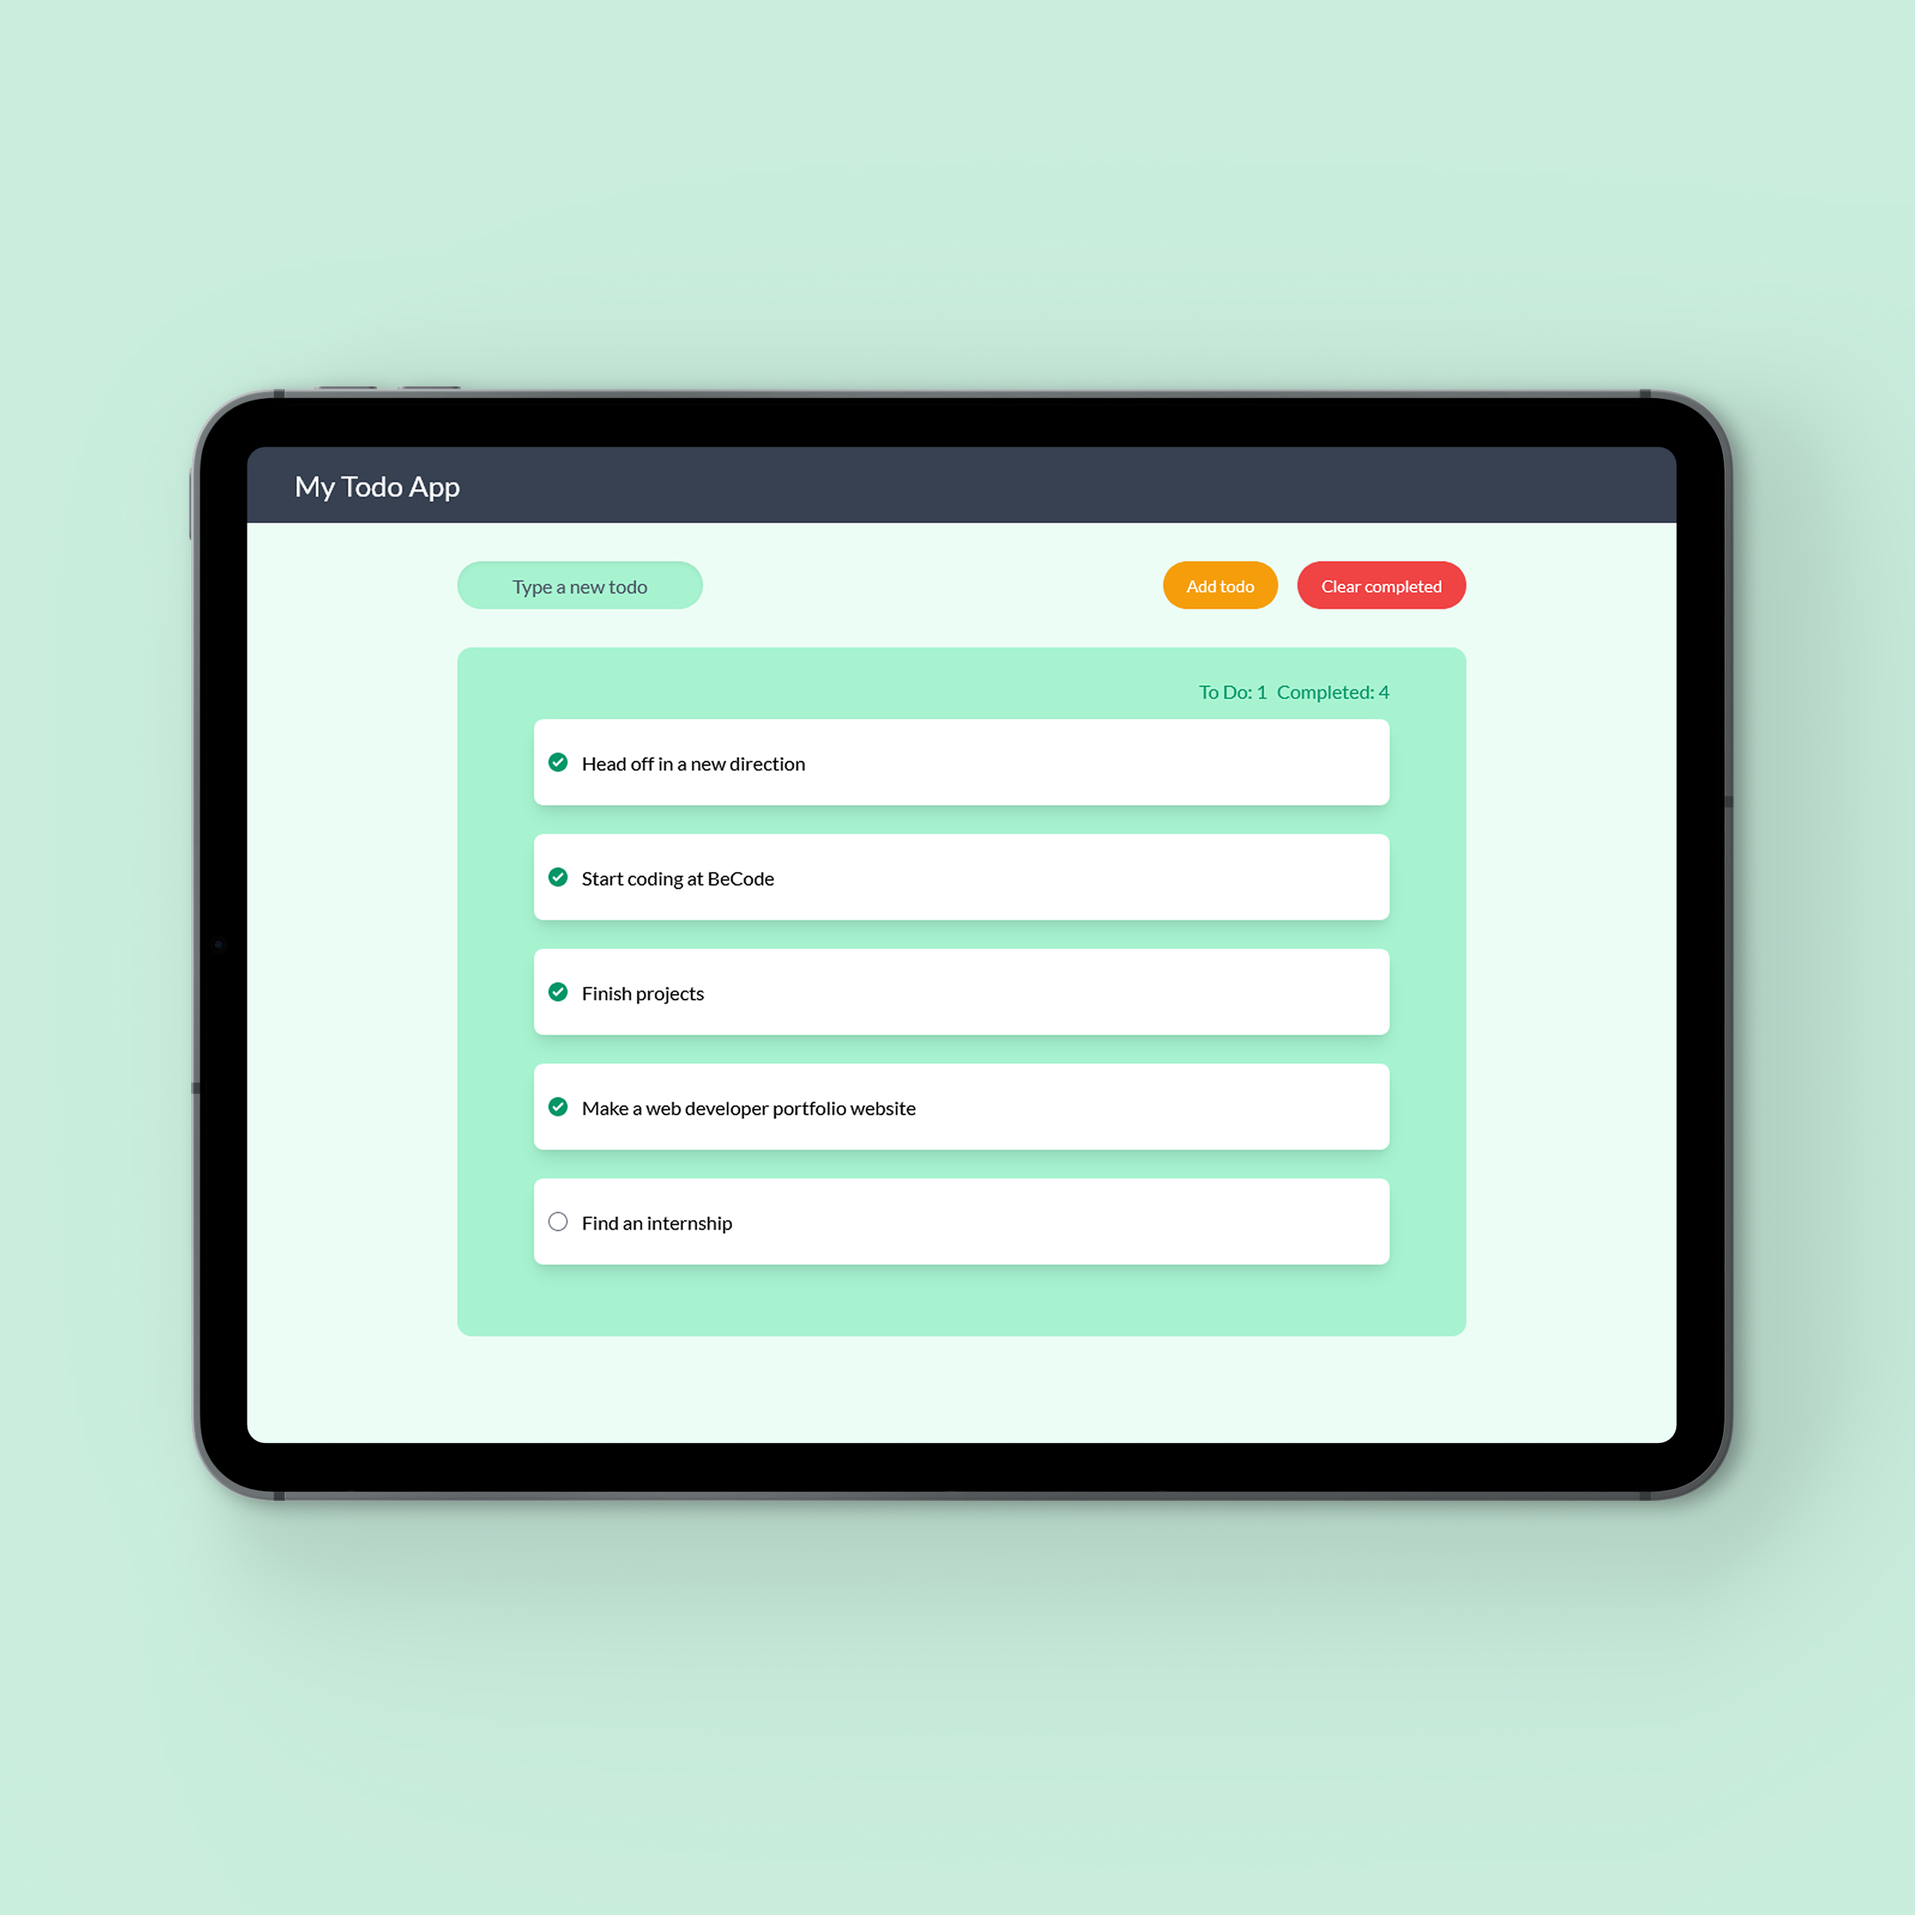
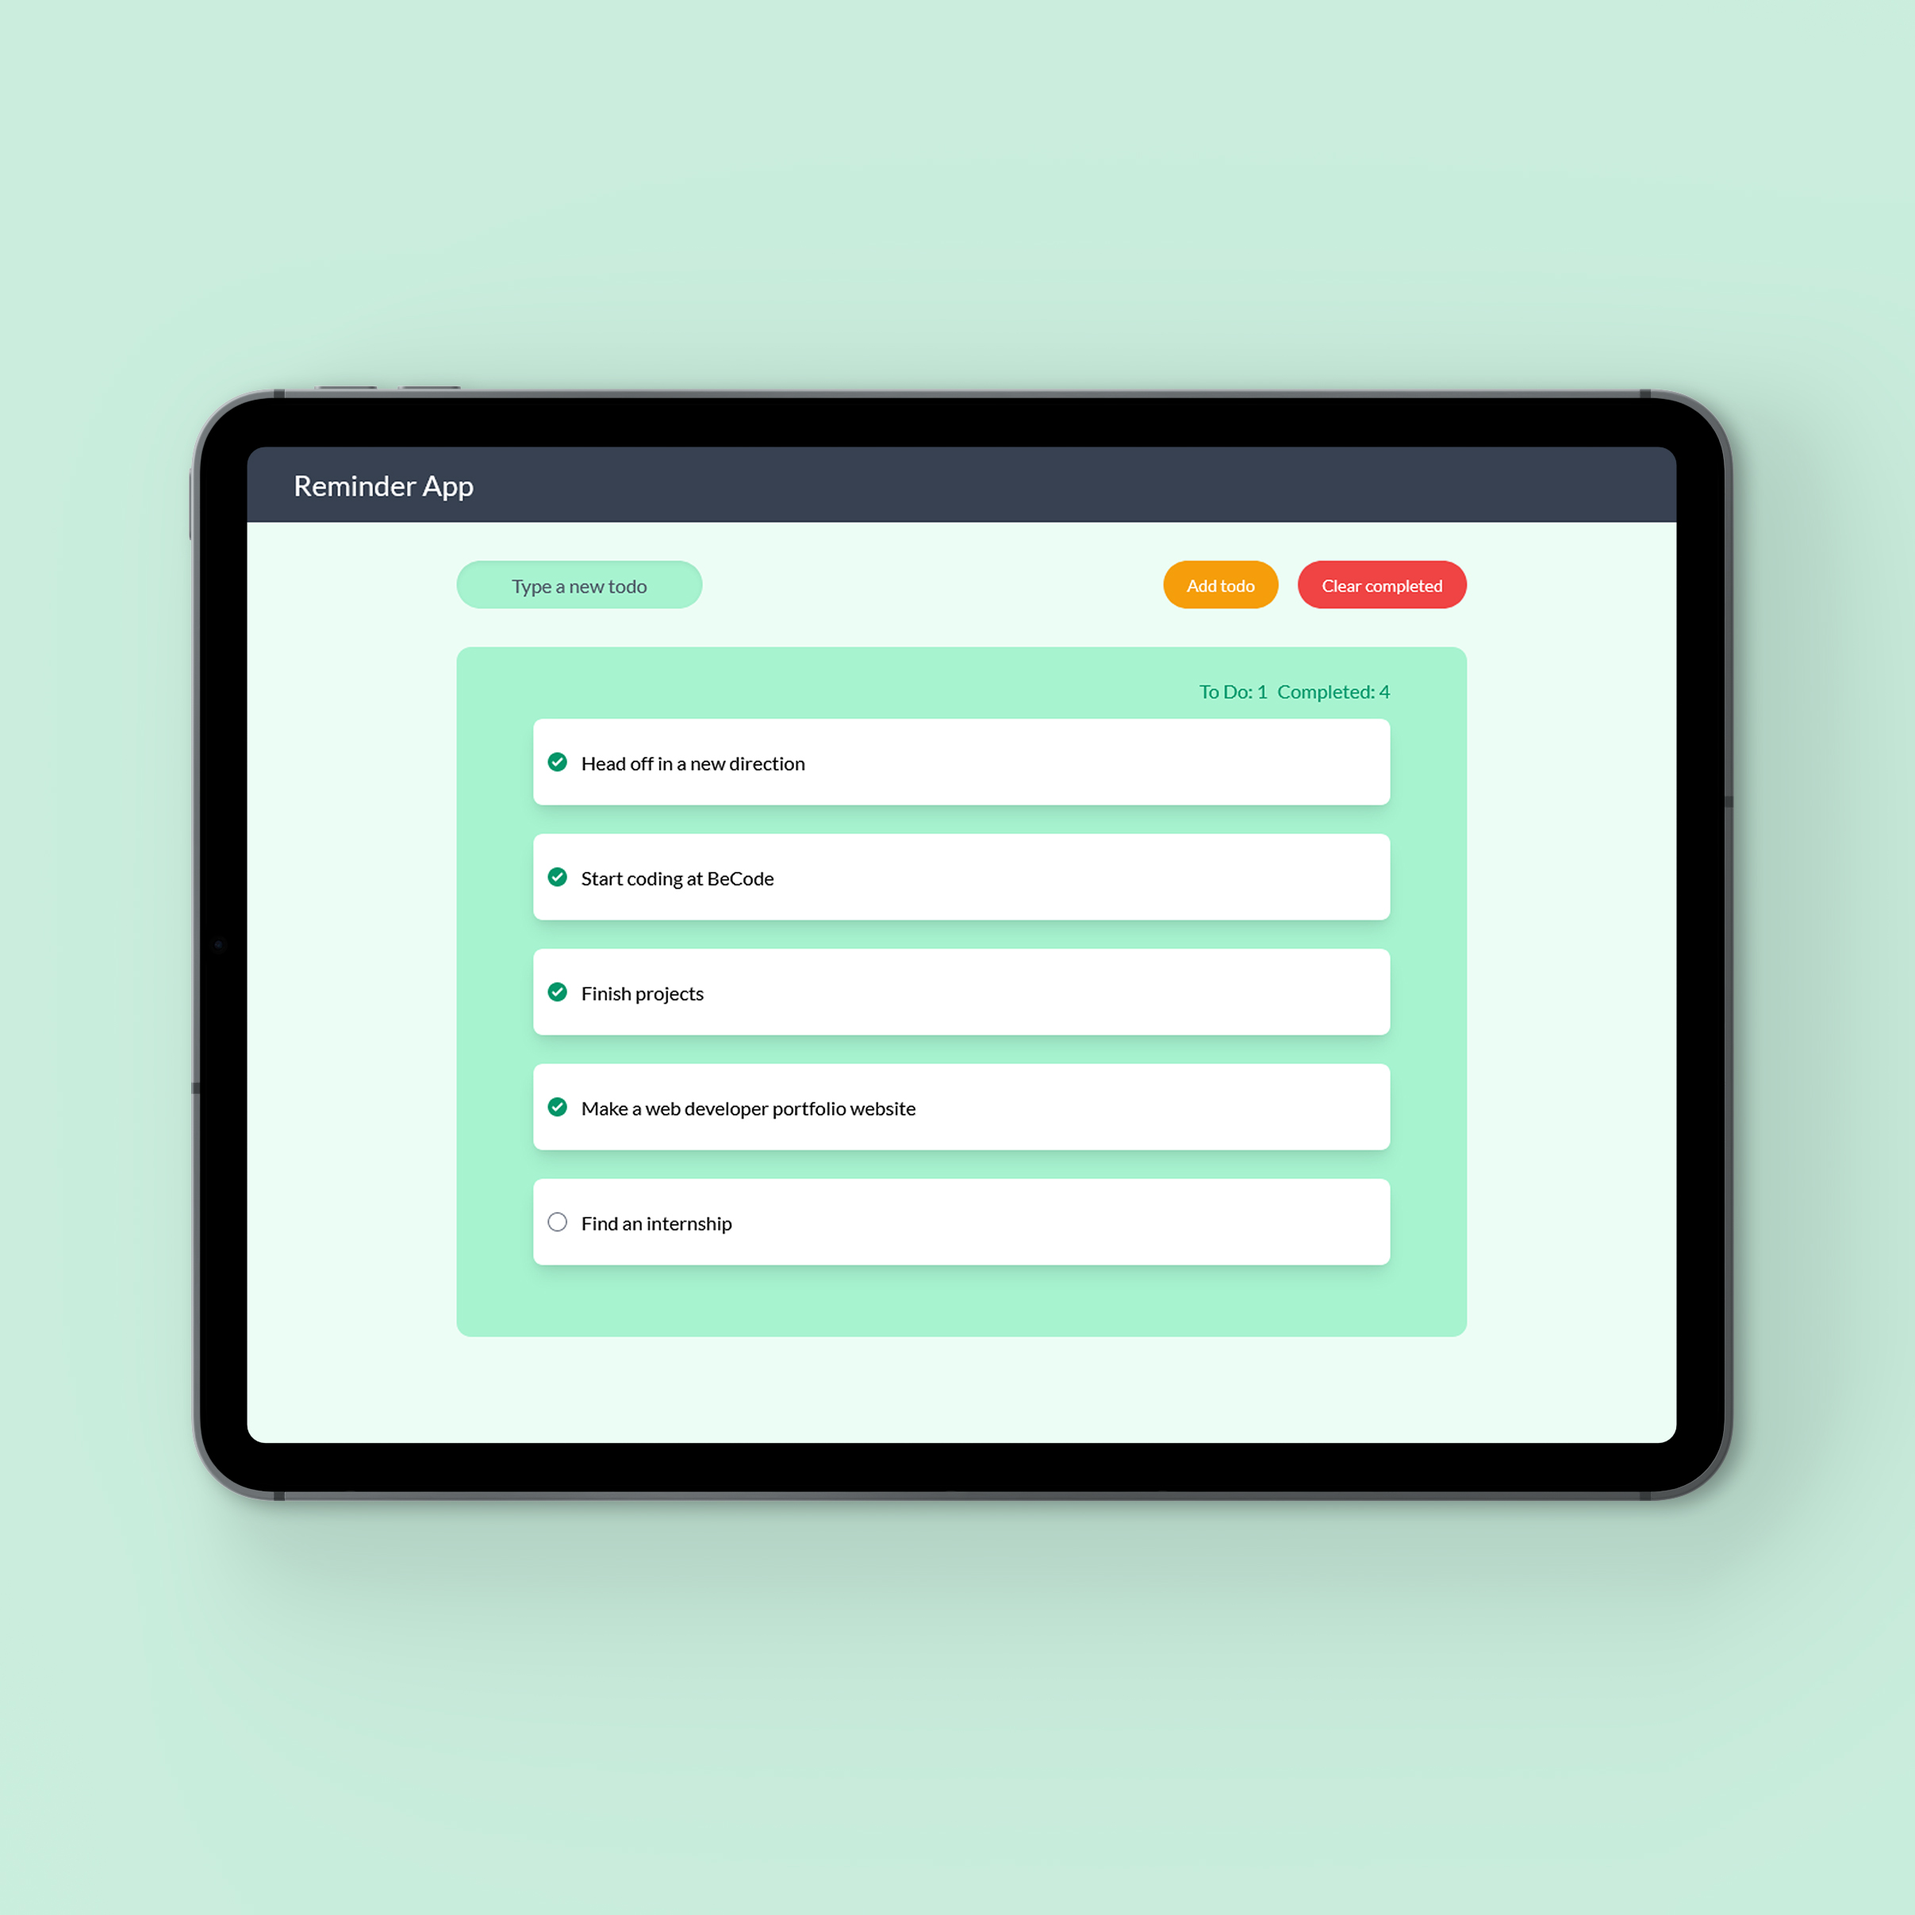
color update, about update

diff --git a/components/About.js b/components/About.js
@@ -17,25 +17,25 @@ const About = () => {
             <h1 className="header-title leading-normal text-4xl text-black mb-4">
               About
             </h1>
-            <p className="text-xl leading-normal">
-              Hi, I'm Mick, an experienced graphic designer, knowledgeable dtp-operator and aspiring
+            <p className="text-xl leading-relaxed">
+              Hi, I'm Mick, an experienced graphic designer, knowledgeable dtp-operator, and aspiring
               web developer from Antwerp. Nice to meet you, welcome to my portfolio.
               <br></br>
               <br></br>
-              On this website you can find some of the projects I made with new skills learned during a seven-months professional Junior Web Developer training 
+              On this website you can find some of the projects made with new skills I gained during a seven-month full-time Junior Web Developer training 
               at BeCode Antwerp. 
               They represent the first steps I have been taking in my ambition of becoming a full stack developer with an emphasis on front-end. 
               More projects can be found on my  <a href="https://github.com/MickDellaert" target="_blank">Github</a> profile.
               <br></br>
               <br></br>
               Up until now I have been working in the graphic design industry, mainly for printed output.
-              During my <a href="https://www.linkedin.com/in/mick-dellaert" target="_blank">career</a> I have worked on a broad range of projects: making layouts for books, magazines, advertisments and newspapers; designing packaging, POS-materials, logo's,
-              exhibition stands, interactive magazines, websites and illustrations. 
+              During my <a href="https://www.linkedin.com/in/mick-dellaert" target="_blank">career</a> I have worked on a broad range of projects: making layouts for books, magazines, advertisements, and newspapers; designing packaging, POS materials, logos,
+              exhibition stands, interactive magazines, websites, and illustrations. 
               <br></br>
               <br></br>
               Currently, I would love to add a more dynamic and interactive
-              layer to my skills and enter the world of web development with
-              it's endless posibilities and exciting prospects. At the moment I
+              dimension to my skills and enter the world of web development with
+              its endless possibilities and exciting prospects. At the moment I
               am actively looking for an internship, hoping to contribute and
               complete my new knowledge in a fresh position and continue my
               journey. If I sparked your interest, don't hesitate to <a href = "mailto: mickdellaert@yahoo.com">contact</a> me.
@@ -53,7 +53,7 @@ const About = () => {
               className={"image"}
             />
           </div>
-          <div className="contact font-bold text-green-600 text-xl my-6 md:mb-0 md:col-span-4 xl:col-span-2 xl:col-start-7 2xl:col-span-2 2xl:col-start-7 self-end">
+          <div className="contact font-bold text-green-500 text-xl my-6 md:mb-0 md:col-span-4 xl:col-span-2 xl:col-start-7 2xl:col-span-2 2xl:col-start-7 self-end">
             <h1 className="leading-normal text-4xl text-black mb-4">
               Contact
             </h1>

diff --git a/components/Navbar.js b/components/Navbar.js
@@ -20,17 +20,17 @@ const Navbar = () => {
   return (
     <Fragment>
       <nav>
-        <div className="navbar-wrapper fixed top-0 left-0 right-0 w-full z-10 bg-white ">
+        <div className="navbar-wrapper fixed top-0 left-0 right-0 w-full z-10 bg-white">
           <div
             className={`navbar-container flex justify-between items-center mx-6 md:mx-16 2xl:mx-40 h-20 ${
               colorChange
                 ? "bg-white border-b-2 border-white"
-                : "bg-white border-b-2 border-green-600"
+                : "bg-white border-b-2 border-green-500"
             }`}
           >
             <div className="logo-container self-end mb-4">
               <div className="logo">
-                <Link href="/">
+                <Link href="/" passHref>
                   <Image
                     src={
                       colorChange
@@ -47,14 +47,12 @@ const Navbar = () => {
             </div>
 
             <div className="navlinks self-end mb-3">
-              {/* <Link href="/" passHref>
-                <a className={`${colorChange ? "text-green-600 hover:text-black" : "text-black hover:text-green-600"}`}>Home</a>
-              </Link> */}
+
               <Link href="/#projects" passHref>
-              <a className={`${colorChange ? "text-green-600 hover:text-black" : "text-black hover:text-green-600"}`}>Projects</a>
+              <a className={`${colorChange ? "text-green-500 hover:text-black" : "text-black hover:text-green-500"}`}>Projects</a>
               </Link>
               <Link href="/#about" passHref>
-              <a className={`${colorChange ? "text-green-600 hover:text-black" : "text-black hover:text-green-600"}`}>About</a>
+              <a className={`${colorChange ? "text-green-500 hover:text-black" : "text-black hover:text-green-500"}`}>About</a>
               </Link>
             </div>
           </div>

diff --git a/styles/globals.css b/styles/globals.css
@@ -27,7 +27,7 @@ h1 {
 
 .span-green {
   font-family: "Manrope", sans-serif;
-  color: #059669;
+  color: rgb(16, 185, 129);
   white-space: nowrap;
 }
 
@@ -110,7 +110,7 @@ a {
   left: 0;
   width: 100%;
   height: 100%;
-  background: rgb(5, 150, 105, 0.6);
+  background: rgba(16, 185, 129, 0.7);
   color: white;
   display: flex;
   justify-content: center;
@@ -147,7 +147,6 @@ a {
   justify-content: space-between;
 }
 
-
 .header-container {
   margin-top: 80px;
 }
@@ -160,7 +159,7 @@ a {
 .projects-anchor {
   display: block;
   position: relative;
-  top: -30px;
+  top: -20px;
   visibility: hidden;
 }
 

diff --git a/tailwind.config.js b/tailwind.config.js
@@ -1,11 +1,21 @@
+const colors = require('tailwindcss/colors')
+
 module.exports = {
   purge: ["./pages/**/*.{js,ts,jsx,tsx}", "./components/**/*.{js,ts,jsx,tsx}"],
   darkMode: false, // or 'media' or 'class'
   theme: {
-    extend: {},
+    
+    extend: {
+      colors: {
+        // Build your palette here
+        transparent: 'transparent',
+        current: 'currentColor',
+        gray: colors.trueGray,
+        warmgray: colors.warmGray,
+        teal: colors.teal
+      }
+    },
   },
-  variants: {
-    extend: {},
-  },
+
   plugins: [],
 };

diff --git a/data.js b/data.js
@@ -36,9 +36,9 @@ export const projects = [
   },
   {
     id: 4,
-    name: "Todo app",
+    name: "Reminder app",
     description:
-      "Never lose track of your todos with this app, built with React and styled with Tailwind.",
+      "Never lose track of your todos with this Reminder app, built with React and styled with Tailwind.",
     linkLive: "https://react-to-do-app-mick.netlify.app/",
     linkName: "Demo",
     linkGit: "https://github.com/MickDellaert/react-intro",

diff --git a/components/Footer.js b/components/Footer.js
@@ -1,7 +1,7 @@
 const Footer = () => {
   return (
     <>
-      <footer className="footer-container  bg-green-600  ">
+      <footer className="footer-container  bg-green-500">
           <div className="flex flex-row justify-center items-center h-32 mx-16">
             <h1 className="font-semibold text-black text-sm">
             &copy; 2021 - Mick Dellaert - All rights reserved
